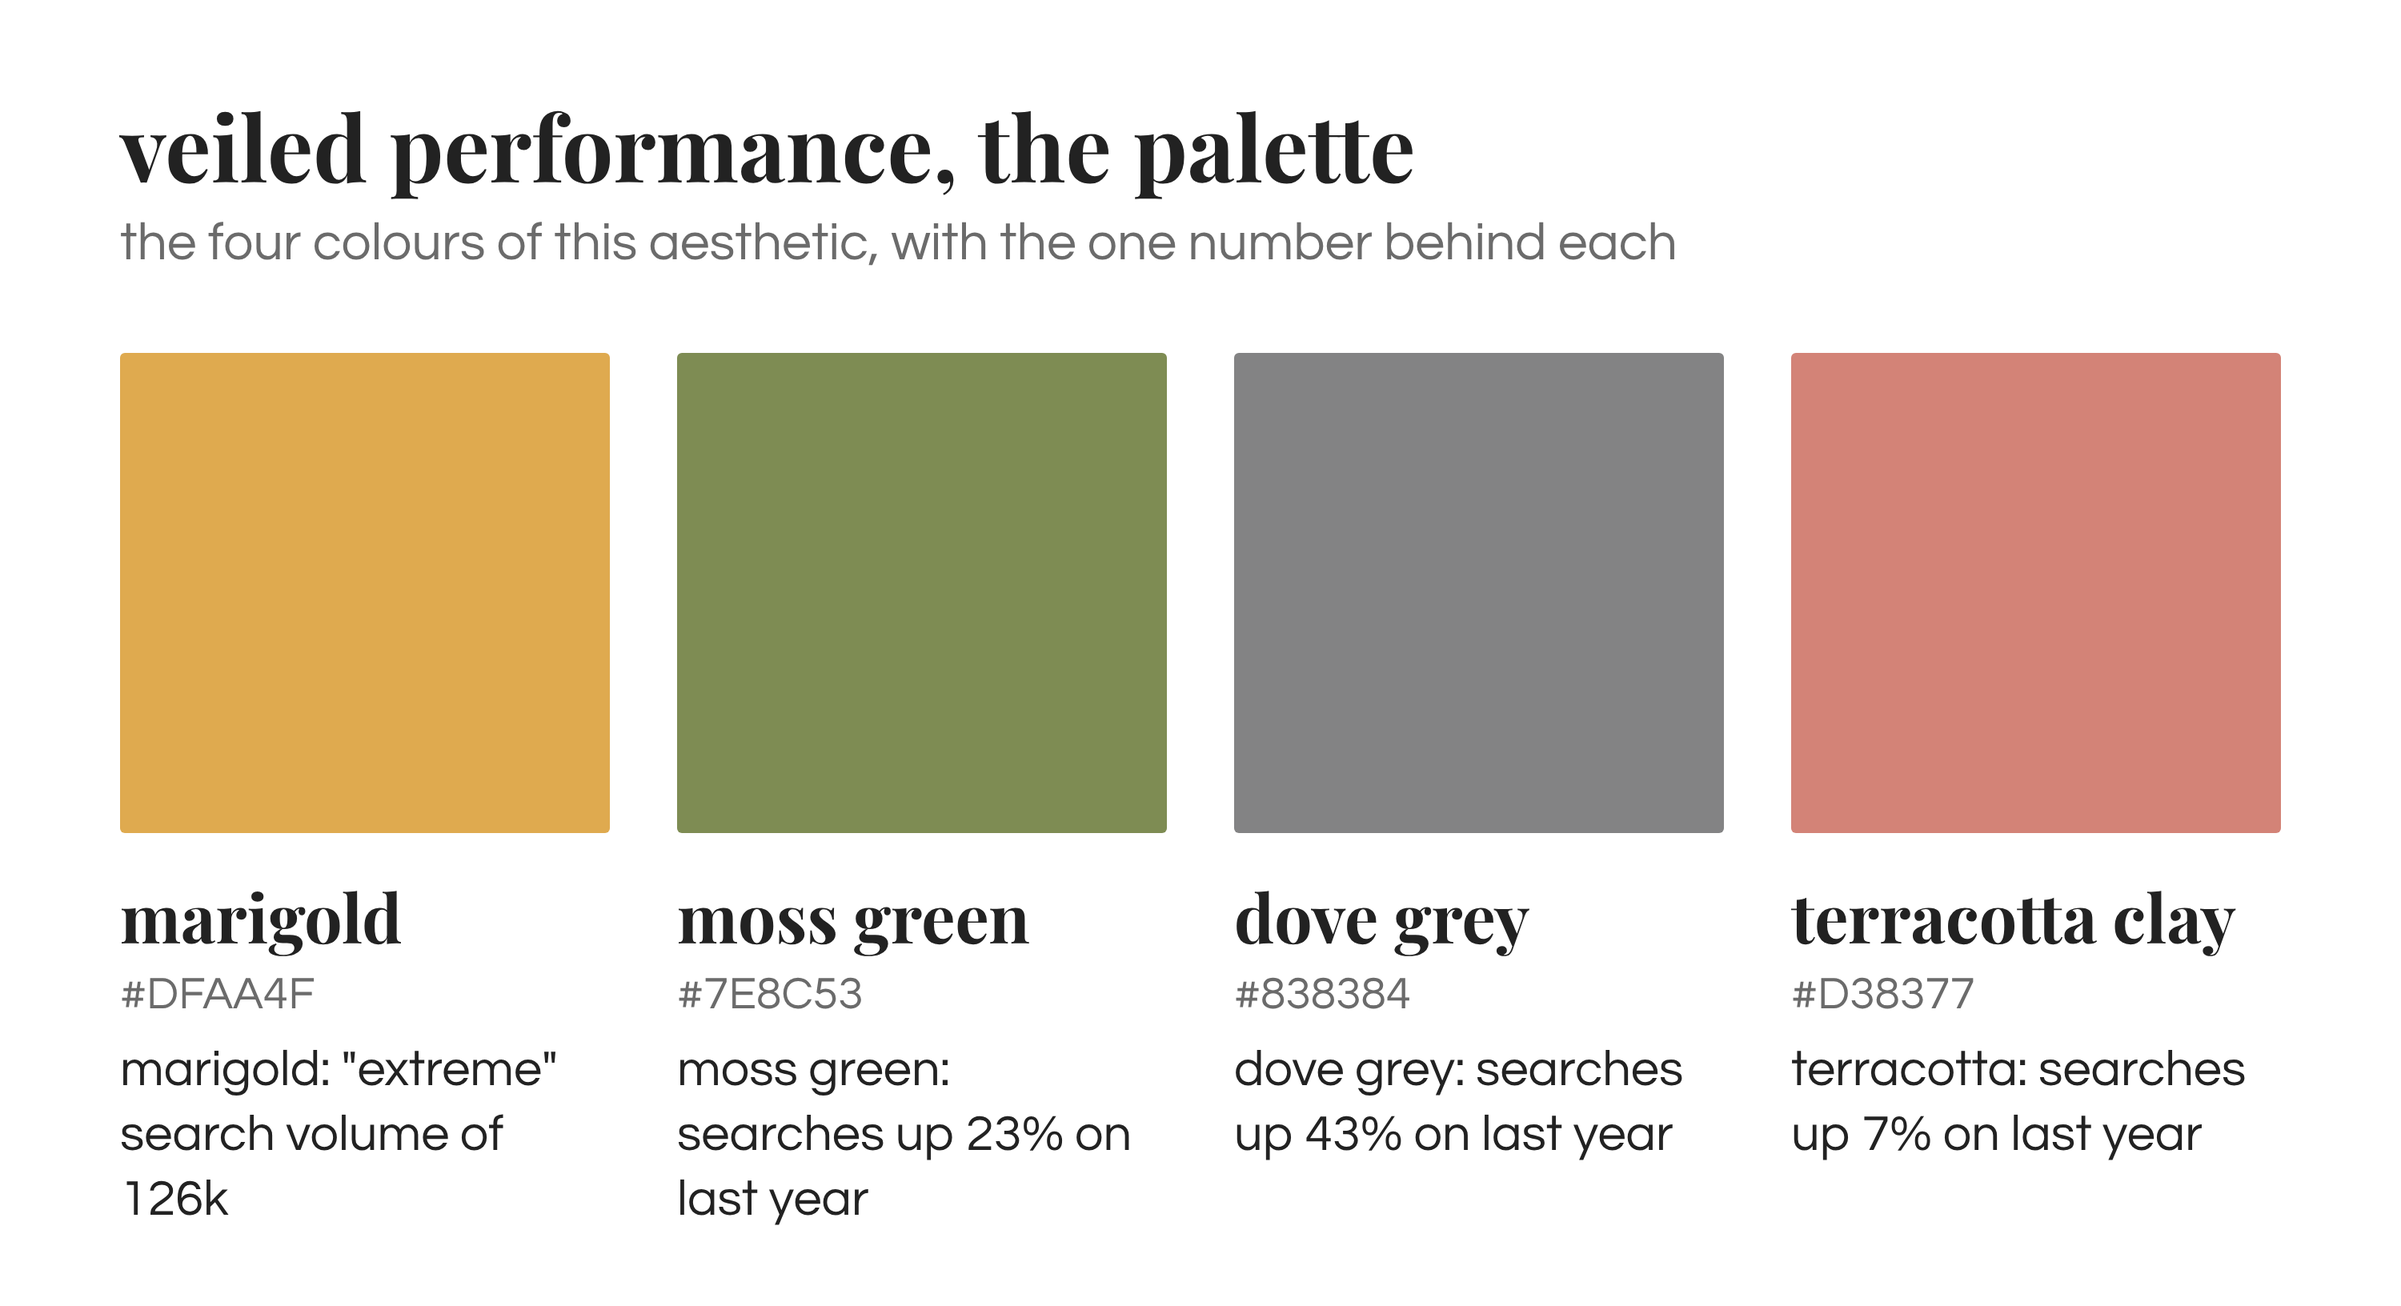
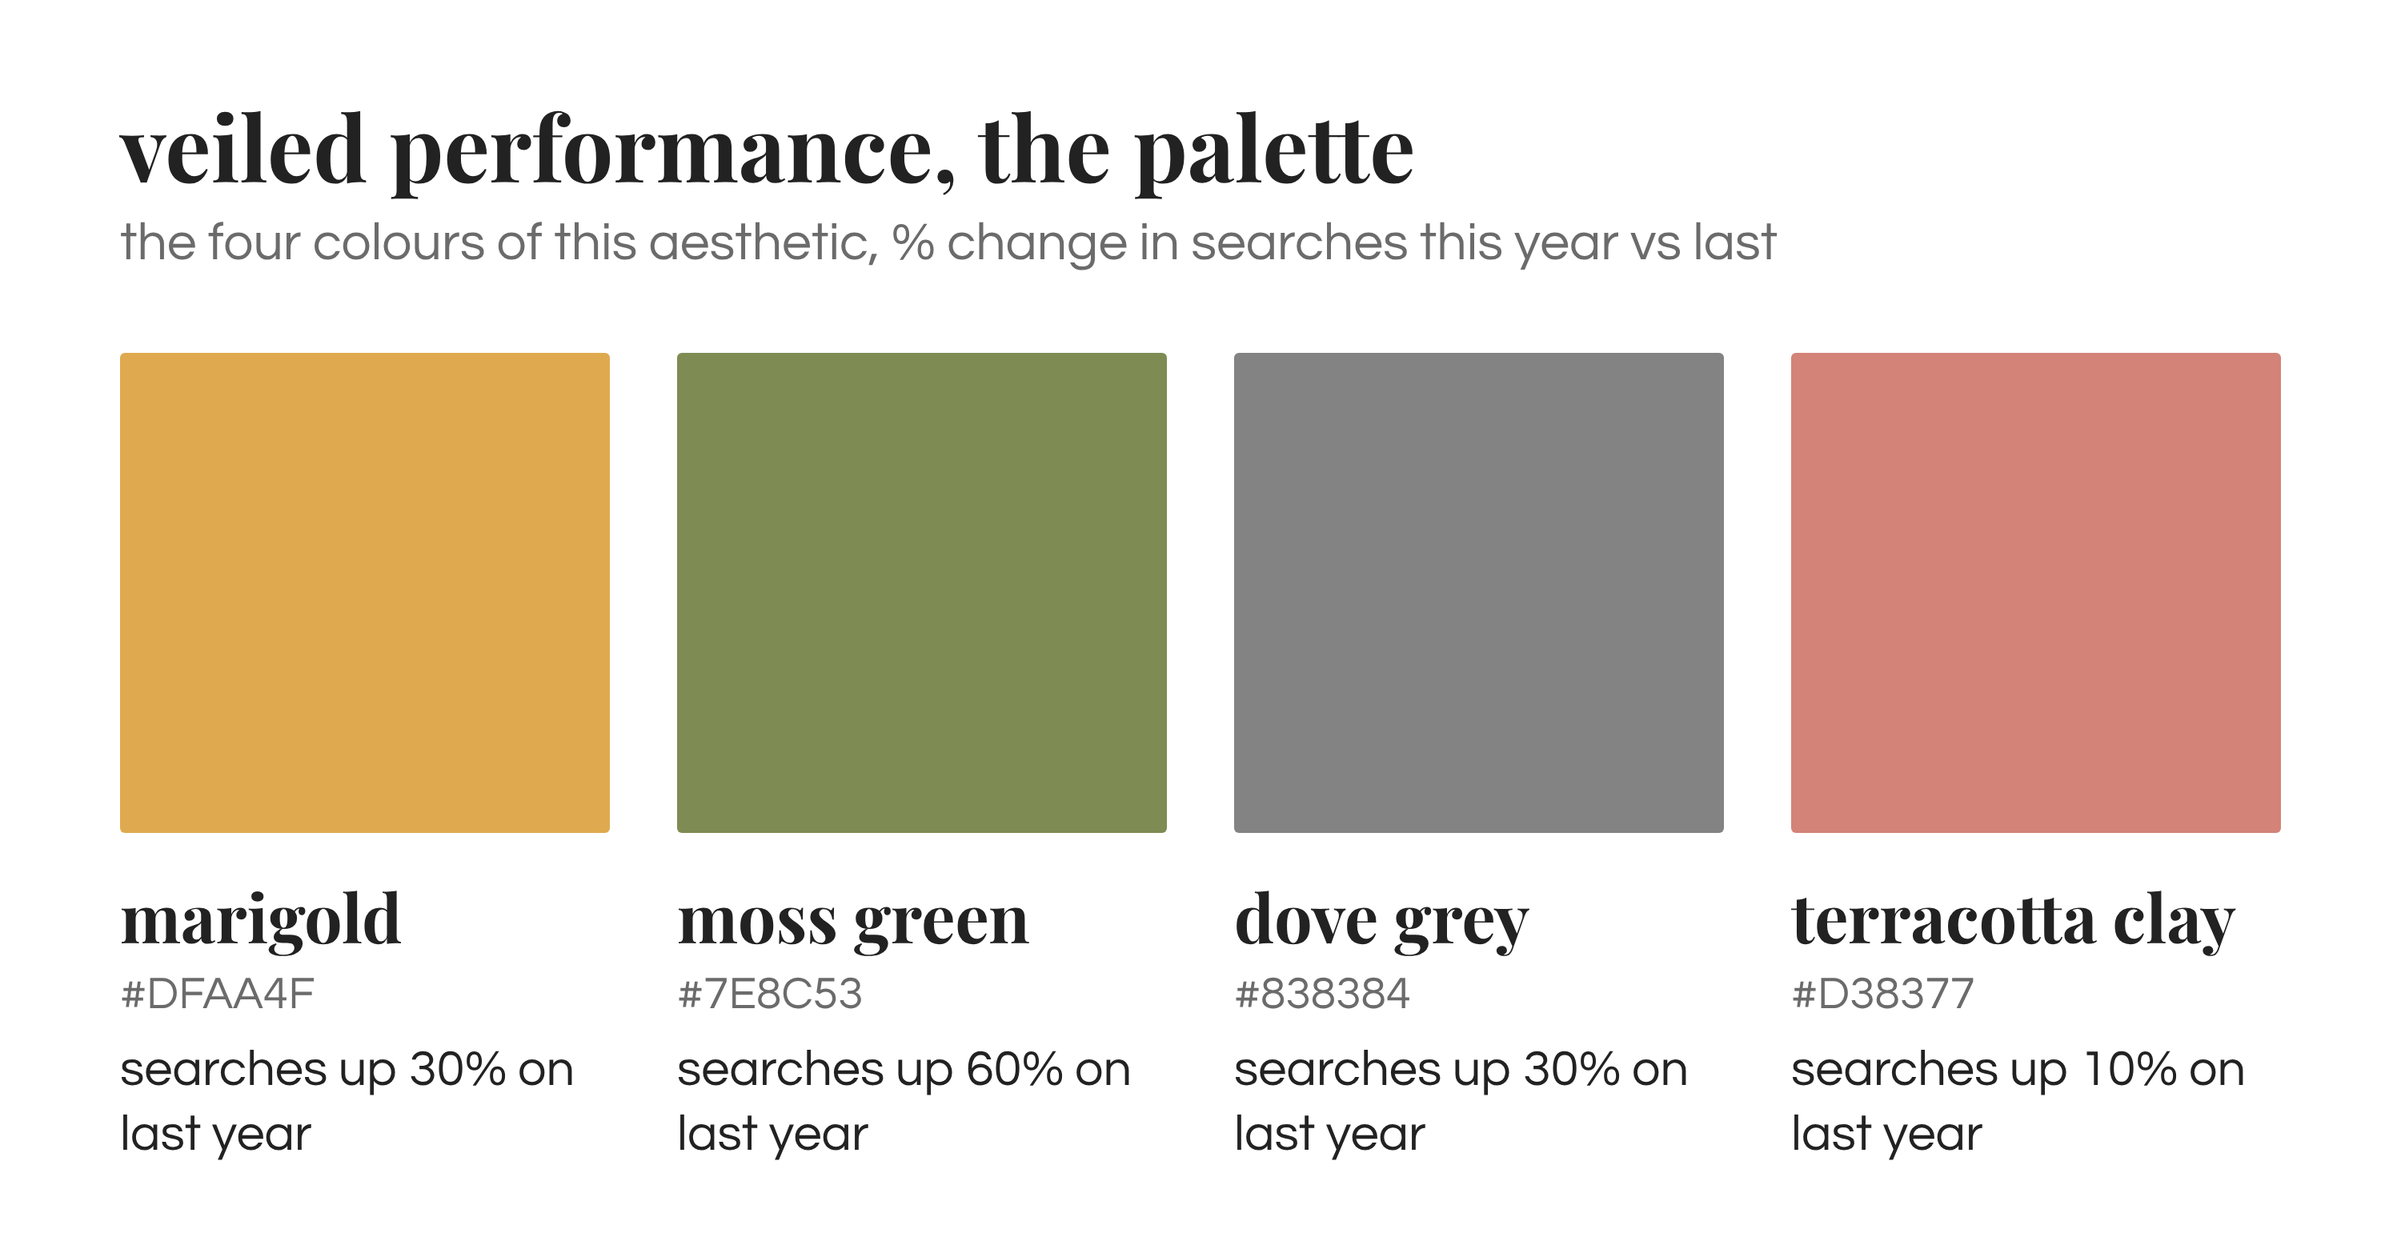
FW27 palette cards: Carmen's search growth under each colour instead of the forecast's printed figures
Claude-Session: https://claude.ai/code/session_01N7aeZaURyexD9YLQTk163X

diff --git a/drafts/fw27-forecast-charts/06-palette-heritage-craft.html b/drafts/fw27-forecast-charts/06-palette-heritage-craft.html
@@ -1,1 +1,1 @@
-<!doctype html><html><head><meta charset="utf-8"><link href="https://fonts.googleapis.com/css2?family=Playfair+Display:wght@700&family=Questrial&display=swap" rel="stylesheet"><style>body{margin:0;background:#fff}#card{width:1000px;background:#fff;box-sizing:border-box;padding:40px 50px 30px;font-family:'Century Gothic', 'Questrial', 'Avenir', sans-serif;color:#222222}h1{font-family:'Playfair Display', Georgia, serif;font-weight:700;font-size:38px;margin:0 0 8px;line-height:1.1}.sub{font-size:22px;color:#6B6B6B;margin:0 0 34px} .src{font-size:20px;margin-top:34px}.row{display:flex;gap:28px} .sw{flex:1} .sq{height:200px;border-radius:2px}.nm{font-family:'Playfair Display', Georgia, serif;font-weight:700;font-size:28px;margin:16px 0 4px} .hx{font-size:19px;color:#6B6B6B;margin:0 0 8px} .dp{font-size:21px;line-height:1.3}.look{flex:1;position:relative;border-radius:22px;overflow:hidden} .look img{width:100%;height:440px;object-fit:cover;object-position:top;display:block}.chip{position:absolute;left:14px;bottom:14px;background:#D6447A;color:#fff;font-size:20px;letter-spacing:1px;text-transform:uppercase;padding:8px 14px;border-radius:12px}</style></head><body><div id="card"><h1>heritage craft, the palette</h1><p class="sub">the four colours of this aesthetic, with the one number behind each</p><div class="row"><div class="sw"><div class="sq" style="background:#7B3330"></div><div class="nm">russet red</div><div class="hx">#7B3330</div><div class="dp">dark red: &quot;high&quot; search volume of 35k</div></div><div class="sw"><div class="sq" style="background:#583759"></div><div class="nm">plum purple</div><div class="hx">#583759</div><div class="dp">plum purple: searches up 39% on last year</div></div><div class="sw"><div class="sq" style="background:#254117"></div><div class="nm">forest green</div><div class="hx">#254117</div><div class="dp">forest green: &quot;extreme&quot; search volume of 57k</div></div><div class="sw"><div class="sq" style="background:#7C533C"></div><div class="nm">chestnut brown</div><div class="hx">#7C533C</div><div class="dp">chestnut brown: 196M views on TikTok</div></div></div></div></body></html>
+<!doctype html><html><head><meta charset="utf-8"><link href="https://fonts.googleapis.com/css2?family=Playfair+Display:wght@700&family=Questrial&display=swap" rel="stylesheet"><style>body{margin:0;background:#fff}#card{width:1000px;background:#fff;box-sizing:border-box;padding:40px 50px 30px;font-family:'Century Gothic', 'Questrial', 'Avenir', sans-serif;color:#222222}h1{font-family:'Playfair Display', Georgia, serif;font-weight:700;font-size:38px;margin:0 0 8px;line-height:1.1}.sub{font-size:22px;color:#6B6B6B;margin:0 0 34px} .src{font-size:20px;margin-top:34px}.row{display:flex;gap:28px} .sw{flex:1} .sq{height:200px;border-radius:2px}.nm{font-family:'Playfair Display', Georgia, serif;font-weight:700;font-size:28px;margin:16px 0 4px} .hx{font-size:19px;color:#6B6B6B;margin:0 0 8px} .dp{font-size:21px;line-height:1.3}.look{flex:1;position:relative;border-radius:22px;overflow:hidden} .look img{width:100%;height:440px;object-fit:cover;object-position:top;display:block}.chip{position:absolute;left:14px;bottom:14px;background:#D6447A;color:#fff;font-size:20px;letter-spacing:1px;text-transform:uppercase;padding:8px 14px;border-radius:12px}</style></head><body><div id="card"><h1>heritage craft, the palette</h1><p class="sub">the four colours of this aesthetic, % change in searches this year vs last</p><div class="row"><div class="sw"><div class="sq" style="background:#7B3330"></div><div class="nm">russet red</div><div class="hx">#7B3330</div><div class="dp">searches up 50% on last year</div></div><div class="sw"><div class="sq" style="background:#583759"></div><div class="nm">plum purple</div><div class="hx">#583759</div><div class="dp">searches up 60% on last year</div></div><div class="sw"><div class="sq" style="background:#254117"></div><div class="nm">forest green</div><div class="hx">#254117</div><div class="dp">searches up 50% on last year</div></div><div class="sw"><div class="sq" style="background:#7C533C"></div><div class="nm">chestnut brown</div><div class="hx">#7C533C</div><div class="dp">searches up 10% on last year</div></div></div></div></body></html>

diff --git a/drafts/fw27-forecast-charts/06-palette-veiled-performance.html b/drafts/fw27-forecast-charts/06-palette-veiled-performance.html
@@ -1,1 +1,1 @@
-<!doctype html><html><head><meta charset="utf-8"><link href="https://fonts.googleapis.com/css2?family=Playfair+Display:wght@700&family=Questrial&display=swap" rel="stylesheet"><style>body{margin:0;background:#fff}#card{width:1000px;background:#fff;box-sizing:border-box;padding:40px 50px 30px;font-family:'Century Gothic', 'Questrial', 'Avenir', sans-serif;color:#222222}h1{font-family:'Playfair Display', Georgia, serif;font-weight:700;font-size:38px;margin:0 0 8px;line-height:1.1}.sub{font-size:22px;color:#6B6B6B;margin:0 0 34px} .src{font-size:20px;margin-top:34px}.row{display:flex;gap:28px} .sw{flex:1} .sq{height:200px;border-radius:2px}.nm{font-family:'Playfair Display', Georgia, serif;font-weight:700;font-size:28px;margin:16px 0 4px} .hx{font-size:19px;color:#6B6B6B;margin:0 0 8px} .dp{font-size:21px;line-height:1.3}.look{flex:1;position:relative;border-radius:22px;overflow:hidden} .look img{width:100%;height:440px;object-fit:cover;object-position:top;display:block}.chip{position:absolute;left:14px;bottom:14px;background:#D6447A;color:#fff;font-size:20px;letter-spacing:1px;text-transform:uppercase;padding:8px 14px;border-radius:12px}</style></head><body><div id="card"><h1>veiled performance, the palette</h1><p class="sub">the four colours of this aesthetic, with the one number behind each</p><div class="row"><div class="sw"><div class="sq" style="background:#DFAA4F"></div><div class="nm">marigold</div><div class="hx">#DFAA4F</div><div class="dp">marigold: &quot;extreme&quot; search volume of 126k</div></div><div class="sw"><div class="sq" style="background:#7E8C53"></div><div class="nm">moss green</div><div class="hx">#7E8C53</div><div class="dp">moss green: searches up 23% on last year</div></div><div class="sw"><div class="sq" style="background:#838384"></div><div class="nm">dove grey</div><div class="hx">#838384</div><div class="dp">dove grey: searches up 43% on last year</div></div><div class="sw"><div class="sq" style="background:#D38377"></div><div class="nm">terracotta clay</div><div class="hx">#D38377</div><div class="dp">terracotta: searches up 7% on last year</div></div></div></div></body></html>
+<!doctype html><html><head><meta charset="utf-8"><link href="https://fonts.googleapis.com/css2?family=Playfair+Display:wght@700&family=Questrial&display=swap" rel="stylesheet"><style>body{margin:0;background:#fff}#card{width:1000px;background:#fff;box-sizing:border-box;padding:40px 50px 30px;font-family:'Century Gothic', 'Questrial', 'Avenir', sans-serif;color:#222222}h1{font-family:'Playfair Display', Georgia, serif;font-weight:700;font-size:38px;margin:0 0 8px;line-height:1.1}.sub{font-size:22px;color:#6B6B6B;margin:0 0 34px} .src{font-size:20px;margin-top:34px}.row{display:flex;gap:28px} .sw{flex:1} .sq{height:200px;border-radius:2px}.nm{font-family:'Playfair Display', Georgia, serif;font-weight:700;font-size:28px;margin:16px 0 4px} .hx{font-size:19px;color:#6B6B6B;margin:0 0 8px} .dp{font-size:21px;line-height:1.3}.look{flex:1;position:relative;border-radius:22px;overflow:hidden} .look img{width:100%;height:440px;object-fit:cover;object-position:top;display:block}.chip{position:absolute;left:14px;bottom:14px;background:#D6447A;color:#fff;font-size:20px;letter-spacing:1px;text-transform:uppercase;padding:8px 14px;border-radius:12px}</style></head><body><div id="card"><h1>veiled performance, the palette</h1><p class="sub">the four colours of this aesthetic, % change in searches this year vs last</p><div class="row"><div class="sw"><div class="sq" style="background:#DFAA4F"></div><div class="nm">marigold</div><div class="hx">#DFAA4F</div><div class="dp">searches up 30% on last year</div></div><div class="sw"><div class="sq" style="background:#7E8C53"></div><div class="nm">moss green</div><div class="hx">#7E8C53</div><div class="dp">searches up 60% on last year</div></div><div class="sw"><div class="sq" style="background:#838384"></div><div class="nm">dove grey</div><div class="hx">#838384</div><div class="dp">searches up 30% on last year</div></div><div class="sw"><div class="sq" style="background:#D38377"></div><div class="nm">terracotta clay</div><div class="hx">#D38377</div><div class="dp">searches up 10% on last year</div></div></div></div></body></html>

diff --git a/drafts/fw27-forecast-charts/06-palette-sensory-riot.html b/drafts/fw27-forecast-charts/06-palette-sensory-riot.html
@@ -1,1 +1,1 @@
-<!doctype html><html><head><meta charset="utf-8"><link href="https://fonts.googleapis.com/css2?family=Playfair+Display:wght@700&family=Questrial&display=swap" rel="stylesheet"><style>body{margin:0;background:#fff}#card{width:1000px;background:#fff;box-sizing:border-box;padding:40px 50px 30px;font-family:'Century Gothic', 'Questrial', 'Avenir', sans-serif;color:#222222}h1{font-family:'Playfair Display', Georgia, serif;font-weight:700;font-size:38px;margin:0 0 8px;line-height:1.1}.sub{font-size:22px;color:#6B6B6B;margin:0 0 34px} .src{font-size:20px;margin-top:34px}.row{display:flex;gap:28px} .sw{flex:1} .sq{height:200px;border-radius:2px}.nm{font-family:'Playfair Display', Georgia, serif;font-weight:700;font-size:28px;margin:16px 0 4px} .hx{font-size:19px;color:#6B6B6B;margin:0 0 8px} .dp{font-size:21px;line-height:1.3}.look{flex:1;position:relative;border-radius:22px;overflow:hidden} .look img{width:100%;height:440px;object-fit:cover;object-position:top;display:block}.chip{position:absolute;left:14px;bottom:14px;background:#D6447A;color:#fff;font-size:20px;letter-spacing:1px;text-transform:uppercase;padding:8px 14px;border-radius:12px}</style></head><body><div id="card"><h1>sensory riot, the palette</h1><p class="sub">the four colours of this aesthetic, with the one number behind each</p><div class="row"><div class="sw"><div class="sq" style="background:#C7D344"></div><div class="nm">chartreuse</div><div class="hx">#C7D344</div><div class="dp">chartreuse: 149M views on TikTok</div></div><div class="sw"><div class="sq" style="background:#FF278A"></div><div class="nm">fuchsia</div><div class="hx">#FF278A</div><div class="dp">fuchsia: &quot;extreme&quot; search volume of 84k</div></div><div class="sw"><div class="sq" style="background:#927EC3"></div><div class="nm">lilac</div><div class="hx">#927EC3</div><div class="dp">lilac: &quot;extreme&quot; search volume of 103k</div></div><div class="sw"><div class="sq" style="background:#4C80FD"></div><div class="nm">cobalt blue</div><div class="hx">#4C80FD</div><div class="dp">cobalt blue: searches up 14% on last year</div></div></div></div></body></html>
+<!doctype html><html><head><meta charset="utf-8"><link href="https://fonts.googleapis.com/css2?family=Playfair+Display:wght@700&family=Questrial&display=swap" rel="stylesheet"><style>body{margin:0;background:#fff}#card{width:1000px;background:#fff;box-sizing:border-box;padding:40px 50px 30px;font-family:'Century Gothic', 'Questrial', 'Avenir', sans-serif;color:#222222}h1{font-family:'Playfair Display', Georgia, serif;font-weight:700;font-size:38px;margin:0 0 8px;line-height:1.1}.sub{font-size:22px;color:#6B6B6B;margin:0 0 34px} .src{font-size:20px;margin-top:34px}.row{display:flex;gap:28px} .sw{flex:1} .sq{height:200px;border-radius:2px}.nm{font-family:'Playfair Display', Georgia, serif;font-weight:700;font-size:28px;margin:16px 0 4px} .hx{font-size:19px;color:#6B6B6B;margin:0 0 8px} .dp{font-size:21px;line-height:1.3}.look{flex:1;position:relative;border-radius:22px;overflow:hidden} .look img{width:100%;height:440px;object-fit:cover;object-position:top;display:block}.chip{position:absolute;left:14px;bottom:14px;background:#D6447A;color:#fff;font-size:20px;letter-spacing:1px;text-transform:uppercase;padding:8px 14px;border-radius:12px}</style></head><body><div id="card"><h1>sensory riot, the palette</h1><p class="sub">the four colours of this aesthetic, % change in searches this year vs last</p><div class="row"><div class="sw"><div class="sq" style="background:#C7D344"></div><div class="nm">chartreuse</div><div class="hx">#C7D344</div><div class="dp">searches up 10% on last year</div></div><div class="sw"><div class="sq" style="background:#FF278A"></div><div class="nm">fuchsia</div><div class="hx">#FF278A</div><div class="dp">searches up 20% on last year</div></div><div class="sw"><div class="sq" style="background:#927EC3"></div><div class="nm">lilac</div><div class="hx">#927EC3</div><div class="dp">searches up 10% on last year</div></div><div class="sw"><div class="sq" style="background:#4C80FD"></div><div class="nm">cobalt blue</div><div class="hx">#4C80FD</div><div class="dp">searches up 30% on last year</div></div></div></div></body></html>

diff --git a/drafts/fw27-forecast-charts/build_visuals.py b/drafts/fw27-forecast-charts/build_visuals.py
@@ -36,20 +36,20 @@ def donut_svg(items, size=810):
 
 PALETTES = {
  'heritage-craft': ('Heritage Craft', [
-   ('russet red', '#7B3330', 'dark red: "high" search volume of 35k'),
-   ('plum purple', '#583759', 'plum purple: searches up 39% on last year'),
-   ('forest green', '#254117', 'forest green: "extreme" search volume of 57k'),
-   ('chestnut brown', '#7C533C', 'chestnut brown: 196M views on TikTok')]),
+   ('russet red', '#7B3330', 'searches up 50% on last year'),
+   ('plum purple', '#583759', 'searches up 60% on last year'),
+   ('forest green', '#254117', 'searches up 50% on last year'),
+   ('chestnut brown', '#7C533C', 'searches up 10% on last year')]),
  'sensory-riot': ('Sensory Riot', [
-   ('chartreuse', '#C7D344', 'chartreuse: 149M views on TikTok'),
-   ('fuchsia', '#FF278A', 'fuchsia: "extreme" search volume of 84k'),
-   ('lilac', '#927EC3', 'lilac: "extreme" search volume of 103k'),
-   ('cobalt blue', '#4C80FD', 'cobalt blue: searches up 14% on last year')]),
+   ('chartreuse', '#C7D344', 'searches up 10% on last year'),
+   ('fuchsia', '#FF278A', 'searches up 20% on last year'),
+   ('lilac', '#927EC3', 'searches up 10% on last year'),
+   ('cobalt blue', '#4C80FD', 'searches up 30% on last year')]),
  'veiled-performance': ('Veiled Performance', [
-   ('marigold', '#DFAA4F', 'marigold: "extreme" search volume of 126k'),
-   ('moss green', '#7E8C53', 'moss green: searches up 23% on last year'),
-   ('dove grey', '#838384', 'dove grey: searches up 43% on last year'),
-   ('terracotta clay', '#D38377', 'terracotta: searches up 7% on last year')]),
+   ('marigold', '#DFAA4F', 'searches up 30% on last year'),
+   ('moss green', '#7E8C53', 'searches up 60% on last year'),
+   ('dove grey', '#838384', 'searches up 30% on last year'),
+   ('terracotta clay', '#D38377', 'searches up 10% on last year')]),
 }
 STRIPS = {
  'heritage-craft': ('Heritage Craft', [('runway-chanel.png', 'Chanel'), ('runway-ralph-lauren.png', 'Ralph Lauren'), ('runway-acne-studios.png', 'Acne Studios')]),
@@ -72,7 +72,7 @@ manifest = []
 for key, (name, cols) in PALETTES.items():
     sw = ''.join(f'<div class="sw"><div class="sq" style="background:{hx}"></div><div class="nm">{html.escape(n)}</div>'
                  f'<div class="hx">{hx}</div><div class="dp">{html.escape(dp)}</div></div>' for n, hx, dp in cols)
-    body = (f'<h1>{name.lower()}, the palette</h1><p class="sub">the four colours of this aesthetic, with the one number behind each</p>'
+    body = (f'<h1>{name.lower()}, the palette</h1><p class="sub">the four colours of this aesthetic, % change in searches this year vs last</p>'
             f'<div class="row">{sw}</div>')
     fn = f'06-palette-{key}'
     open(f'{OUT}/{fn}.html', 'w').write(page(body, 1000)); manifest.append(fn)
